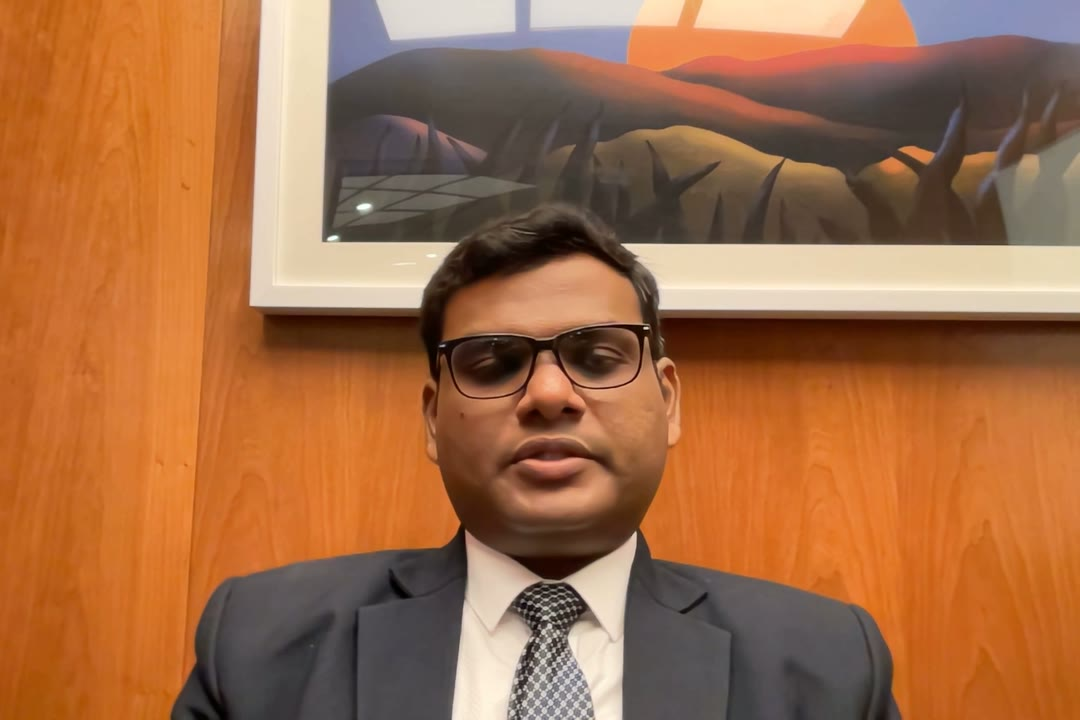
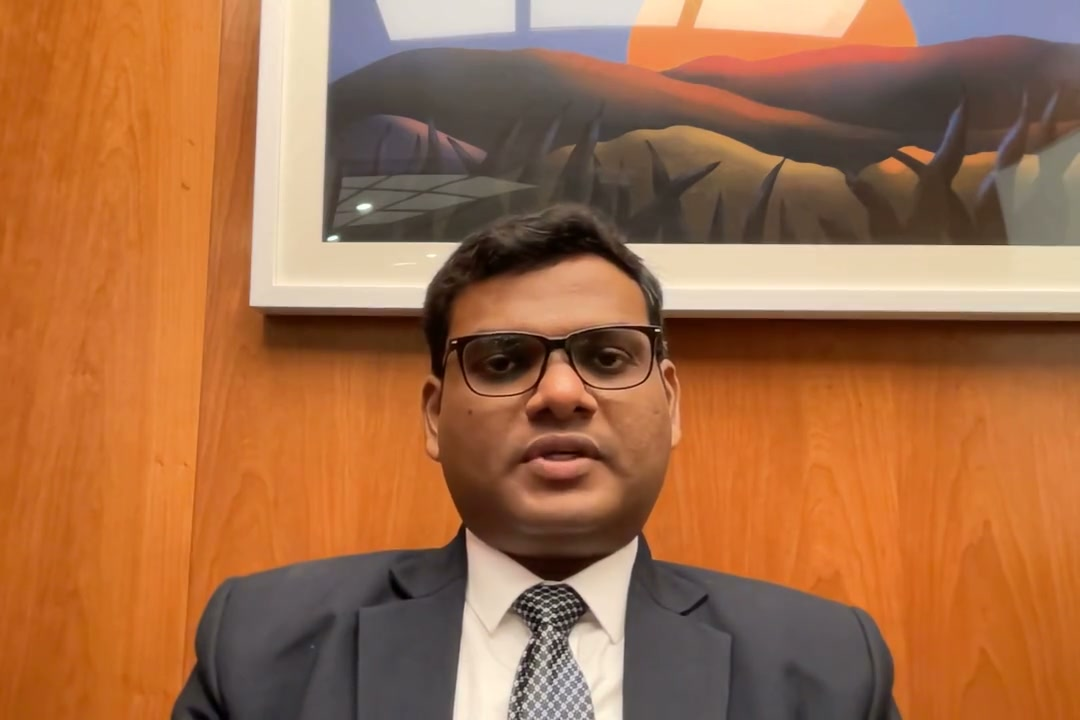
Update intro video poster cover image

diff --git a/public/transcript.html b/public/transcript.html
@@ -10,7 +10,7 @@
     <meta property="og:description" content="Full transcript of Girish M&#x27;s eight minute introduction video: backend architecture at Cisco and the Thirty Meter Telescope, OpenProject integrations for Matrix/Element and Mattermost, and Yojana, a free software portfolio management platform." />
     <meta property="og:type" content="article" />
     <meta property="og:url" content="https://girishm.info/transcript.html" />
-    <meta property="og:image" content="https://girishm.info/video/intro-poster.jpg" />
+    <meta property="og:image" content="https://girishm.info/video/intro-poster.jpg?v=2" />
     <meta name="twitter:card" content="summary_large_image" />
     <style>
 :root{--fg:#0f172a;--muted:#64748b;--bg:#ffffff;--card:#f8fafc;--line:#e2e8f0;--accent:#0891b2}
@@ -59,7 +59,7 @@ footer{color:var(--muted);font-size:.85rem}
       </p>
 
       <a class="watch" href="/video/intro.mp4">
-        <img src="/video/intro-poster.jpg" alt="Girish M in the introduction video" width="1080" height="720" />
+        <img src="/video/intro-poster.jpg?v=2" alt="Girish M in the introduction video" width="1080" height="720" />
         <div>
           <strong>Watch the video</strong>
           8 minutes 5 seconds &#183; English captions available

diff --git a/index.html b/index.html
@@ -25,7 +25,7 @@
     <meta property="og:description" content="Backend Architect specializing in server-side development and open source integrations. Available for B2B remote contracts." />
     <meta property="og:type" content="website" />
     <meta property="og:url" content="https://girishm.info" />
-    <meta property="og:image" content="https://girishm.info/video/intro-poster.jpg" />
+    <meta property="og:image" content="https://girishm.info/video/intro-poster.jpg?v=2" />
     <meta property="og:locale" content="en_US" />
     
     <!-- Twitter Card -->
@@ -89,7 +89,7 @@
       "@type": "VideoObject",
       "name": "Girish M - Professional Introduction",
       "description": "An eight minute introduction from Girish M, backend architect and open source integration specialist. Covers enterprise software experience at Cisco and the Thirty Meter Telescope, OpenProject integrations for Matrix/Element and Mattermost, and Yojana, a free software portfolio management platform.",
-      "thumbnailUrl": "https://girishm.info/video/intro-poster.jpg",
+      "thumbnailUrl": "https://girishm.info/video/intro-poster.jpg?v=2",
       "uploadDate": "2026-10-26",
       "duration": "PT8M5S",
       "contentUrl": "https://girishm.info/video/intro.mp4",

diff --git a/src/components/IntroVideo.tsx b/src/components/IntroVideo.tsx
@@ -2,7 +2,7 @@ import { useRef, useState } from 'react'
 import { motion } from 'framer-motion'
 
 const VIDEO_SRC = '/video/intro.mp4?v=1'
-const POSTER_SRC = '/video/intro-poster.jpg?v=1'
+const POSTER_SRC = '/video/intro-poster.jpg?v=2'
 const CAPTIONS_SRC = '/video/intro.en.vtt?v=1'
 
 export default function IntroVideo() {
